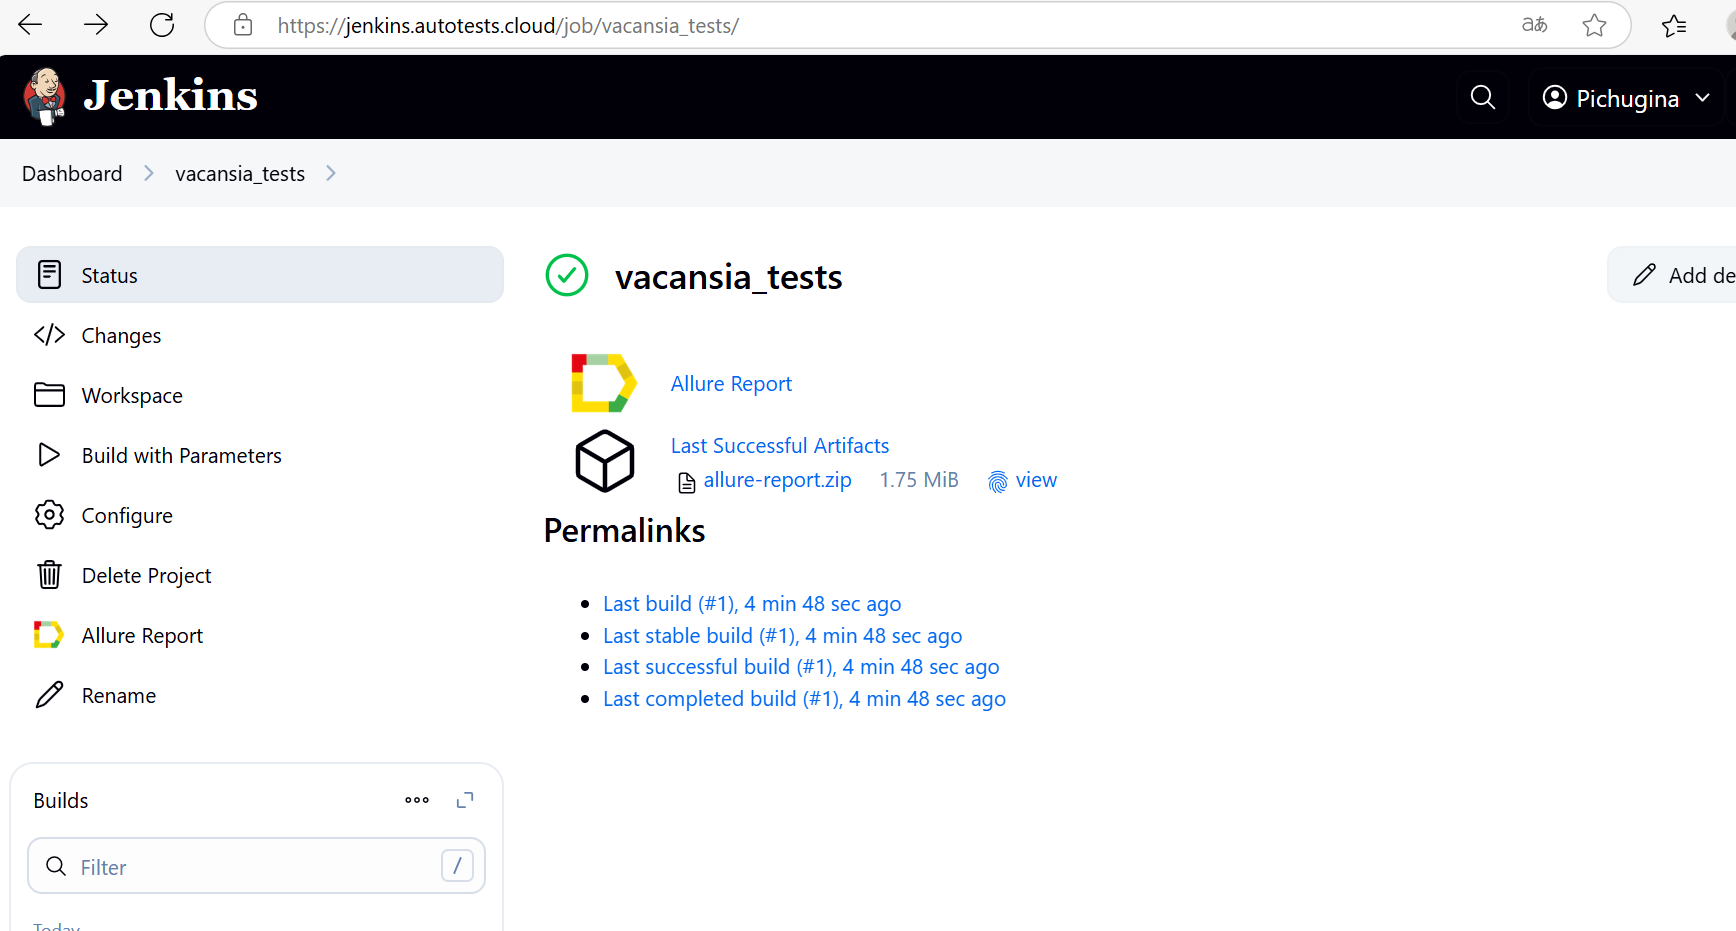
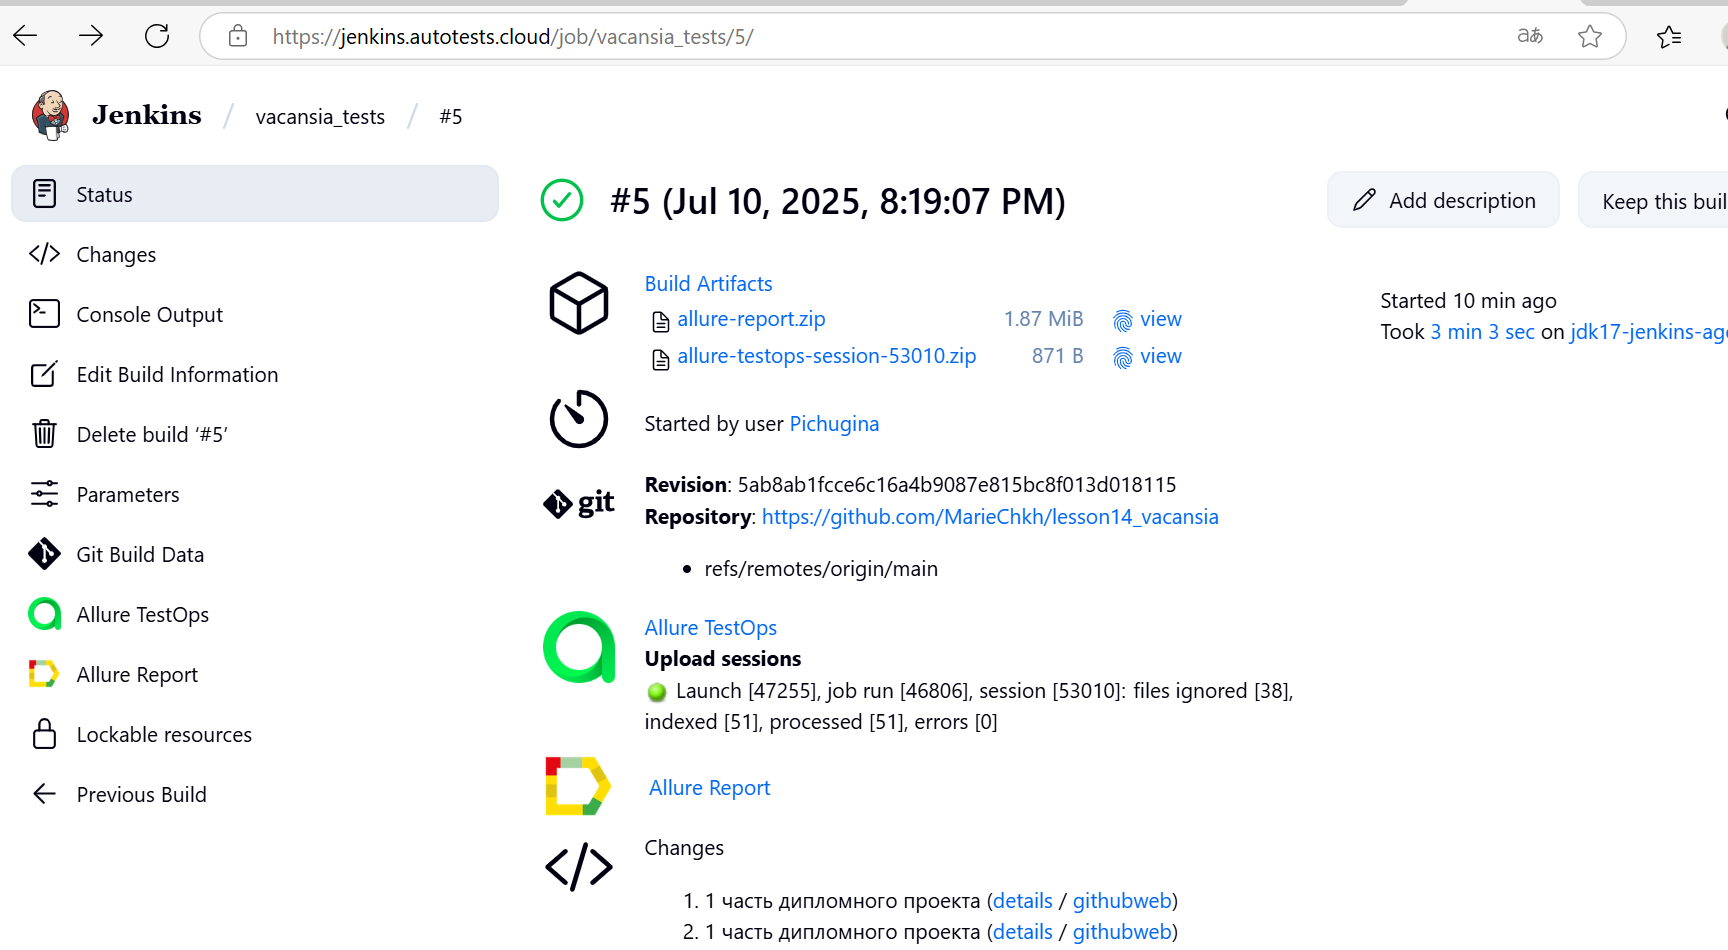
1 часть дипломного проекта апдейт по замечаниям

diff --git a/README.md b/README.md
@@ -39,6 +39,7 @@
 - В разделе меню 'Продукты' проверяем наличие заголовка
 - В разделе меню 'Карьера' проверяем наличие заголовка
 - В разделе меню 'Партнеры' проверяем наличие заголовка
+- Поиск вакансии
 
 ## <img alt="Jenkins" height="25" src="media/Jenkins.svg" width="25"/> Сборка в [Jenkins](https://jenkins.autotests.cloud/job/vacansia_tests/)
 
@@ -59,7 +60,7 @@
 
 Локальный запуск:
 ```bash  
-gradle clean ifellow_test
+gradle clean test
 ```
 Запуск с параметрами:
 ```bash  
@@ -68,7 +69,7 @@ gradle clean ifellow_test
 Удаленный запуск через Jenkins:
 ```bash  
 clean
-ifellow_test
+test
 -Dbrowser=${browser} 
 -DbrowserVersion=${browserVersion} 
 -DremoteUrl="https://user1:1234@${remoteUrl}/wd/hub" 
